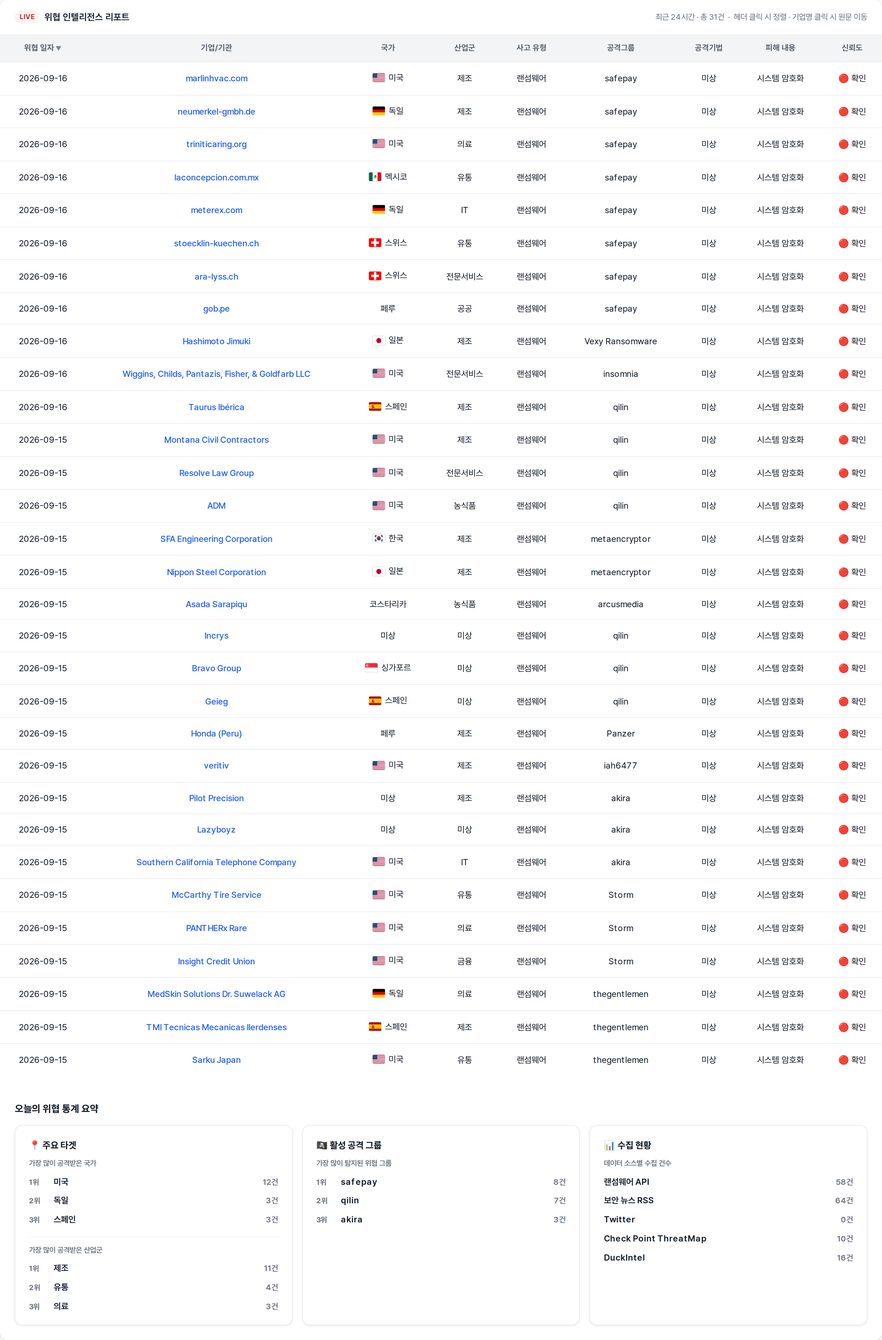
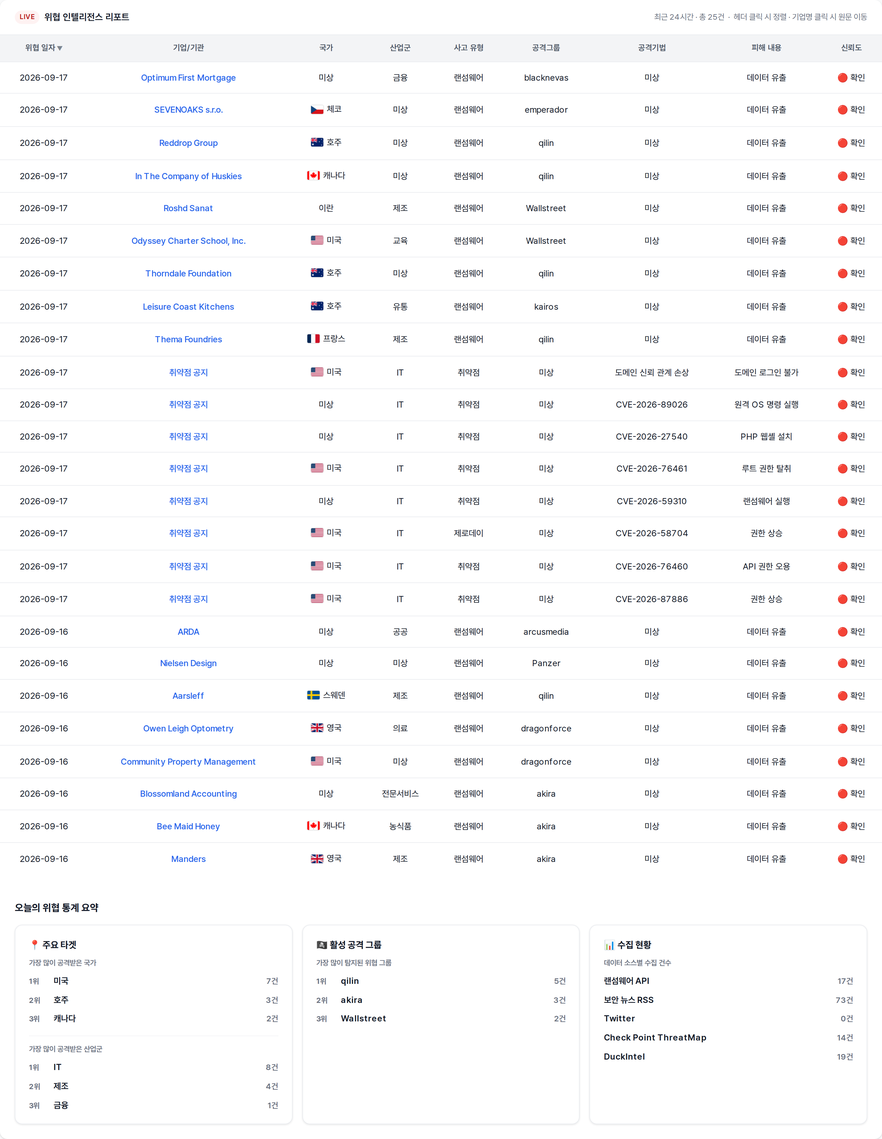
deploy: 9c533ad8fcaa3f846a31aadab046301a26f1192c

diff --git a/index.html b/index.html
@@ -3,7 +3,7 @@
 <head>
   <meta charset="UTF-8" />
   <meta name="viewport" content="width=device-width, initial-scale=1.0" />
-  <title>🚨 2026년 09월 16일 국내/해외 사이버 위협 현황</title>
+  <title>🚨 2026년 09월 17일 국내/해외 사이버 위협 현황</title>
   <link rel="preconnect" href="https://cdn.jsdelivr.net" />
   <link href="https://cdn.jsdelivr.net/gh/orioncactus/pretendard/dist/web/static/pretendard.css" rel="stylesheet" />
   <style>
@@ -253,7 +253,7 @@
 </head>
 <body>
   <div class="page-header">
-    <h1 class="page-title">🚨 2026년 09월 16일 국내/해외 사이버 위협 현황</h1>
+    <h1 class="page-title">🚨 2026년 09월 17일 국내/해외 사이버 위협 현황</h1>
   </div>
 
   <div class="dashboard">
@@ -261,43 +261,37 @@
     <div class="card-header">
       <span class="badge">LIVE</span>
       <span class="card-title">위협 인텔리전스 리포트</span>
-      <span class="card-count">최근 24시간 · 총 31건 &nbsp;·&nbsp; 헤더 클릭 시 정렬 · 기업명 클릭 시 원문 이동</span>
+      <span class="card-count">최근 24시간 · 총 25건 &nbsp;·&nbsp; 헤더 클릭 시 정렬 · 기업명 클릭 시 원문 이동</span>
     </div>
     <div class="table-wrap" style="overflow-x: auto; -webkit-overflow-scrolling: touch;">
       <table id="threat-table">
         <thead><tr><th onclick="sortTable(0)" data-col="0" class="sort-desc">위협 일자</th><th onclick="sortTable(1)" data-col="1">기업/기관</th><th onclick="sortTable(2)" data-col="2">국가</th><th onclick="sortTable(3)" data-col="3">산업군</th><th onclick="sortTable(4)" data-col="4">사고 유형</th><th onclick="sortTable(5)" data-col="5">공격그룹</th><th onclick="sortTable(6)" data-col="6">공격기법</th><th onclick="sortTable(7)" data-col="7">피해 내용</th><th onclick="sortTable(8)" data-col="8">신뢰도</th></tr></thead>
         <tbody>
-<tr><td>2026-09-16</td><td><a href="https://www.ransomware.live/id/bWFybGluaHZhYy5jb21Ac2FmZXBheQ==" target="_blank" rel="noopener noreferrer">marlinhvac.com</a></td><td class="country"><span class="country-cell"><img class="flag" src="https://flagcdn.com/w40/us.png" alt="미국" width="20" height="14" />미국</span></td><td>제조</td><td>랜섬웨어</td><td>safepay</td><td>미상</td><td>시스템 암호화</td><td>🔴 확인</td></tr>
-<tr><td>2026-09-16</td><td><a href="https://www.ransomware.live/id/bmV1bWVya2VsLWdtYmguZGVAc2FmZXBheQ==" target="_blank" rel="noopener noreferrer">neumerkel-gmbh.de</a></td><td class="country"><span class="country-cell"><img class="flag" src="https://flagcdn.com/w40/de.png" alt="독일" width="20" height="14" />독일</span></td><td>제조</td><td>랜섬웨어</td><td>safepay</td><td>미상</td><td>시스템 암호화</td><td>🔴 확인</td></tr>
-<tr><td>2026-09-16</td><td><a href="https://www.ransomware.live/id/dHJpbml0aWNhcmluZy5vcmdAc2FmZXBheQ==" target="_blank" rel="noopener noreferrer">triniticaring.org</a></td><td class="country"><span class="country-cell"><img class="flag" src="https://flagcdn.com/w40/us.png" alt="미국" width="20" height="14" />미국</span></td><td>의료</td><td>랜섬웨어</td><td>safepay</td><td>미상</td><td>시스템 암호화</td><td>🔴 확인</td></tr>
-<tr><td>2026-09-16</td><td><a href="https://www.ransomware.live/id/bGFjb25jZXBjaW9uLmNvbS5teEBzYWZlcGF5" target="_blank" rel="noopener noreferrer">laconcepcion.com.mx</a></td><td class="country"><span class="country-cell"><img class="flag" src="https://flagcdn.com/w40/mx.png" alt="멕시코" width="20" height="14" />멕시코</span></td><td>유통</td><td>랜섬웨어</td><td>safepay</td><td>미상</td><td>시스템 암호화</td><td>🔴 확인</td></tr>
-<tr><td>2026-09-16</td><td><a href="https://www.ransomware.live/id/bWV0ZXJleC5jb21Ac2FmZXBheQ==" target="_blank" rel="noopener noreferrer">meterex.com</a></td><td class="country"><span class="country-cell"><img class="flag" src="https://flagcdn.com/w40/de.png" alt="독일" width="20" height="14" />독일</span></td><td>IT</td><td>랜섬웨어</td><td>safepay</td><td>미상</td><td>시스템 암호화</td><td>🔴 확인</td></tr>
-<tr><td>2026-09-16</td><td><a href="https://www.ransomware.live/id/c3RvZWNrbGluLWt1ZWNoZW4uY2hAc2FmZXBheQ==" target="_blank" rel="noopener noreferrer">stoecklin-kuechen.ch</a></td><td class="country"><span class="country-cell"><img class="flag" src="https://flagcdn.com/w40/ch.png" alt="스위스" width="20" height="14" />스위스</span></td><td>유통</td><td>랜섬웨어</td><td>safepay</td><td>미상</td><td>시스템 암호화</td><td>🔴 확인</td></tr>
-<tr><td>2026-09-16</td><td><a href="https://www.ransomware.live/id/YXJhLWx5c3MuY2hAc2FmZXBheQ==" target="_blank" rel="noopener noreferrer">ara-lyss.ch</a></td><td class="country"><span class="country-cell"><img class="flag" src="https://flagcdn.com/w40/ch.png" alt="스위스" width="20" height="14" />스위스</span></td><td>전문서비스</td><td>랜섬웨어</td><td>safepay</td><td>미상</td><td>시스템 암호화</td><td>🔴 확인</td></tr>
-<tr><td>2026-09-16</td><td><a href="https://www.ransomware.live/id/Z29iLnBlQHNhZmVwYXk=" target="_blank" rel="noopener noreferrer">gob.pe</a></td><td class="country"><span class="country-cell">페루</span></td><td>공공</td><td>랜섬웨어</td><td>safepay</td><td>미상</td><td>시스템 암호화</td><td>🔴 확인</td></tr>
-<tr><td>2026-09-16</td><td><a href="https://www.ransomware.live/id/SGFzaGltb3RvIEppbXVraUBWZXh5IFJhbnNvbXdhcmU=" target="_blank" rel="noopener noreferrer">Hashimoto Jimuki</a></td><td class="country"><span class="country-cell"><img class="flag" src="https://flagcdn.com/w40/jp.png" alt="일본" width="20" height="14" />일본</span></td><td>제조</td><td>랜섬웨어</td><td>Vexy Ransomware</td><td>미상</td><td>시스템 암호화</td><td>🔴 확인</td></tr>
-<tr><td>2026-09-16</td><td><a href="https://www.ransomware.live/id/V2lnZ2lucywgQ2hpbGRzLCBQYW50YXppcywgRmlzaGVyLCAmIEdvbGRmYXJiIExMQ0BpbnNvbW5pYQ==" target="_blank" rel="noopener noreferrer">Wiggins, Childs, Pantazis, Fisher, &amp; Goldfarb LLC</a></td><td class="country"><span class="country-cell"><img class="flag" src="https://flagcdn.com/w40/us.png" alt="미국" width="20" height="14" />미국</span></td><td>전문서비스</td><td>랜섬웨어</td><td>insomnia</td><td>미상</td><td>시스템 암호화</td><td>🔴 확인</td></tr>
-<tr><td>2026-09-16</td><td><a href="https://www.ransomware.live/id/VGF1cnVzIEliw6lyaWNhQHFpbGlu" target="_blank" rel="noopener noreferrer">Taurus Ibérica</a></td><td class="country"><span class="country-cell"><img class="flag" src="https://flagcdn.com/w40/es.png" alt="스페인" width="20" height="14" />스페인</span></td><td>제조</td><td>랜섬웨어</td><td>qilin</td><td>미상</td><td>시스템 암호화</td><td>🔴 확인</td></tr>
-<tr><td>2026-09-15</td><td><a href="https://www.ransomware.live/id/TW9udGFuYSBDaXZpbCBDb250cmFjdG9yc0BxaWxpbg==" target="_blank" rel="noopener noreferrer">Montana Civil Contractors</a></td><td class="country"><span class="country-cell"><img class="flag" src="https://flagcdn.com/w40/us.png" alt="미국" width="20" height="14" />미국</span></td><td>제조</td><td>랜섬웨어</td><td>qilin</td><td>미상</td><td>시스템 암호화</td><td>🔴 확인</td></tr>
-<tr><td>2026-09-15</td><td><a href="https://www.ransomware.live/id/UmVzb2x2ZSBMYXcgR3JvdXBAcWlsaW4=" target="_blank" rel="noopener noreferrer">Resolve Law Group</a></td><td class="country"><span class="country-cell"><img class="flag" src="https://flagcdn.com/w40/us.png" alt="미국" width="20" height="14" />미국</span></td><td>전문서비스</td><td>랜섬웨어</td><td>qilin</td><td>미상</td><td>시스템 암호화</td><td>🔴 확인</td></tr>
-<tr><td>2026-09-15</td><td><a href="https://www.ransomware.live/id/QURNQHFpbGlu" target="_blank" rel="noopener noreferrer">ADM</a></td><td class="country"><span class="country-cell"><img class="flag" src="https://flagcdn.com/w40/us.png" alt="미국" width="20" height="14" />미국</span></td><td>농식품</td><td>랜섬웨어</td><td>qilin</td><td>미상</td><td>시스템 암호화</td><td>🔴 확인</td></tr>
-<tr><td>2026-09-15</td><td><a href="https://www.ransomware.live/id/U0ZBIEVuZ2luZWVyaW5nIENvcnBvcmF0aW9uQG1ldGFlbmNyeXB0b3I=" target="_blank" rel="noopener noreferrer">SFA Engineering Corporation</a></td><td class="country"><span class="country-cell"><img class="flag" src="https://flagcdn.com/w40/kr.png" alt="한국" width="20" height="14" />한국</span></td><td>제조</td><td>랜섬웨어</td><td>metaencryptor</td><td>미상</td><td>시스템 암호화</td><td>🔴 확인</td></tr>
-<tr><td>2026-09-15</td><td><a href="https://www.ransomware.live/id/TmlwcG9uIFN0ZWVsIENvcnBvcmF0aW9uQG1ldGFlbmNyeXB0b3I=" target="_blank" rel="noopener noreferrer">Nippon Steel Corporation</a></td><td class="country"><span class="country-cell"><img class="flag" src="https://flagcdn.com/w40/jp.png" alt="일본" width="20" height="14" />일본</span></td><td>제조</td><td>랜섬웨어</td><td>metaencryptor</td><td>미상</td><td>시스템 암호화</td><td>🔴 확인</td></tr>
-<tr><td>2026-09-15</td><td><a href="https://www.ransomware.live/id/QXNhZGEgU2FyYXBpcXVAYXJjdXNtZWRpYQ==" target="_blank" rel="noopener noreferrer">Asada Sarapiqu</a></td><td class="country"><span class="country-cell">코스타리카</span></td><td>농식품</td><td>랜섬웨어</td><td>arcusmedia</td><td>미상</td><td>시스템 암호화</td><td>🔴 확인</td></tr>
-<tr><td>2026-09-15</td><td><a href="https://www.ransomware.live/id/SW5jcnlzQHFpbGlu" target="_blank" rel="noopener noreferrer">Incrys</a></td><td class="country"><span class="country-cell">미상</span></td><td>미상</td><td>랜섬웨어</td><td>qilin</td><td>미상</td><td>시스템 암호화</td><td>🔴 확인</td></tr>
-<tr><td>2026-09-15</td><td><a href="https://www.ransomware.live/id/QnJhdm8gR3JvdXBAcWlsaW4=" target="_blank" rel="noopener noreferrer">Bravo Group</a></td><td class="country"><span class="country-cell"><img class="flag" src="https://flagcdn.com/w40/sg.png" alt="싱가포르" width="20" height="14" />싱가포르</span></td><td>미상</td><td>랜섬웨어</td><td>qilin</td><td>미상</td><td>시스템 암호화</td><td>🔴 확인</td></tr>
-<tr><td>2026-09-15</td><td><a href="https://www.ransomware.live/id/R2VpZWdAcWlsaW4=" target="_blank" rel="noopener noreferrer">Geieg</a></td><td class="country"><span class="country-cell"><img class="flag" src="https://flagcdn.com/w40/es.png" alt="스페인" width="20" height="14" />스페인</span></td><td>미상</td><td>랜섬웨어</td><td>qilin</td><td>미상</td><td>시스템 암호화</td><td>🔴 확인</td></tr>
-<tr><td>2026-09-15</td><td><a href="https://www.ransomware.live/id/SG9uZGEgKFBlcnUpQFBhbnplcg==" target="_blank" rel="noopener noreferrer">Honda (Peru)</a></td><td class="country"><span class="country-cell">페루</span></td><td>제조</td><td>랜섬웨어</td><td>Panzer</td><td>미상</td><td>시스템 암호화</td><td>🔴 확인</td></tr>
-<tr><td>2026-09-15</td><td><a href="https://www.ransomware.live/id/dmVyaXRpdkBpYWg2NDc3" target="_blank" rel="noopener noreferrer">veritiv</a></td><td class="country"><span class="country-cell"><img class="flag" src="https://flagcdn.com/w40/us.png" alt="미국" width="20" height="14" />미국</span></td><td>제조</td><td>랜섬웨어</td><td>iah6477</td><td>미상</td><td>시스템 암호화</td><td>🔴 확인</td></tr>
-<tr><td>2026-09-15</td><td><a href="https://www.ransomware.live/id/UGlsb3QgUHJlY2lzaW9uQGFraXJh" target="_blank" rel="noopener noreferrer">Pilot Precision</a></td><td class="country"><span class="country-cell">미상</span></td><td>제조</td><td>랜섬웨어</td><td>akira</td><td>미상</td><td>시스템 암호화</td><td>🔴 확인</td></tr>
-<tr><td>2026-09-15</td><td><a href="https://www.ransomware.live/id/TGF6eWJveXpAYWtpcmE=" target="_blank" rel="noopener noreferrer">Lazyboyz</a></td><td class="country"><span class="country-cell">미상</span></td><td>미상</td><td>랜섬웨어</td><td>akira</td><td>미상</td><td>시스템 암호화</td><td>🔴 확인</td></tr>
-<tr><td>2026-09-15</td><td><a href="https://www.ransomware.live/id/U291dGhlcm4gQ2FsaWZvcm5pYSBUZWxlcGhvbmUgQ29tcGFueUBha2lyYQ==" target="_blank" rel="noopener noreferrer">Southern California Telephone Company</a></td><td class="country"><span class="country-cell"><img class="flag" src="https://flagcdn.com/w40/us.png" alt="미국" width="20" height="14" />미국</span></td><td>IT</td><td>랜섬웨어</td><td>akira</td><td>미상</td><td>시스템 암호화</td><td>🔴 확인</td></tr>
-<tr><td>2026-09-15</td><td><a href="https://www.ransomware.live/id/TWNDYXJ0aHkgVGlyZSBTZXJ2aWNlQFN0b3Jt" target="_blank" rel="noopener noreferrer">McCarthy Tire Service</a></td><td class="country"><span class="country-cell"><img class="flag" src="https://flagcdn.com/w40/us.png" alt="미국" width="20" height="14" />미국</span></td><td>유통</td><td>랜섬웨어</td><td>Storm</td><td>미상</td><td>시스템 암호화</td><td>🔴 확인</td></tr>
-<tr><td>2026-09-15</td><td><a href="https://www.ransomware.live/id/UEFOVEhFUnggUmFyZUBTdG9ybQ==" target="_blank" rel="noopener noreferrer">PANTHERx Rare</a></td><td class="country"><span class="country-cell"><img class="flag" src="https://flagcdn.com/w40/us.png" alt="미국" width="20" height="14" />미국</span></td><td>의료</td><td>랜섬웨어</td><td>Storm</td><td>미상</td><td>시스템 암호화</td><td>🔴 확인</td></tr>
-<tr><td>2026-09-15</td><td><a href="https://www.ransomware.live/id/SW5zaWdodCBDcmVkaXQgVW5pb25AU3Rvcm0=" target="_blank" rel="noopener noreferrer">Insight Credit Union</a></td><td class="country"><span class="country-cell"><img class="flag" src="https://flagcdn.com/w40/us.png" alt="미국" width="20" height="14" />미국</span></td><td>금융</td><td>랜섬웨어</td><td>Storm</td><td>미상</td><td>시스템 암호화</td><td>🔴 확인</td></tr>
-<tr><td>2026-09-15</td><td><a href="https://www.ransomware.live/id/TWVkU2tpbiBTb2x1dGlvbnMgRHIuIFN1d2VsYWNrIEFHQHRoZWdlbnRsZW1lbg==" target="_blank" rel="noopener noreferrer">MedSkin Solutions Dr. Suwelack AG</a></td><td class="country"><span class="country-cell"><img class="flag" src="https://flagcdn.com/w40/de.png" alt="독일" width="20" height="14" />독일</span></td><td>의료</td><td>랜섬웨어</td><td>thegentlemen</td><td>미상</td><td>시스템 암호화</td><td>🔴 확인</td></tr>
-<tr><td>2026-09-15</td><td><a href="https://www.ransomware.live/id/VE1JIFRlY25pY2FzIE1lY2FuaWNhcyBJbGVyZGVuc2VzQHRoZWdlbnRsZW1lbg==" target="_blank" rel="noopener noreferrer">TMI Tecnicas Mecanicas Ilerdenses</a></td><td class="country"><span class="country-cell"><img class="flag" src="https://flagcdn.com/w40/es.png" alt="스페인" width="20" height="14" />스페인</span></td><td>제조</td><td>랜섬웨어</td><td>thegentlemen</td><td>미상</td><td>시스템 암호화</td><td>🔴 확인</td></tr>
-<tr><td>2026-09-15</td><td><a href="https://www.ransomware.live/id/U2Fya3UgSmFwYW5AdGhlZ2VudGxlbWVu" target="_blank" rel="noopener noreferrer">Sarku Japan</a></td><td class="country"><span class="country-cell"><img class="flag" src="https://flagcdn.com/w40/us.png" alt="미국" width="20" height="14" />미국</span></td><td>유통</td><td>랜섬웨어</td><td>thegentlemen</td><td>미상</td><td>시스템 암호화</td><td>🔴 확인</td></tr>
+<tr><td>2026-09-17</td><td><a href="https://www.ransomware.live/id/T3B0aW11bSBGaXJzdCBNb3J0Z2FnZSAoUGVhcidzIGFjdGluZyBncm91cCdzIHByb21vdGlvbmFsIGJsb2cpQGJsYWNrbmV2YXM=" target="_blank" rel="noopener noreferrer">Optimum First Mortgage</a></td><td class="country"><span class="country-cell">미상</span></td><td>금융</td><td>랜섬웨어</td><td>blacknevas</td><td>미상</td><td>데이터 유출</td><td>🔴 확인</td></tr>
+<tr><td>2026-09-17</td><td><a href="https://www.ransomware.live/id/U0VWRU5PQUtTIHMuci5vLkBlbXBlcmFkb3I=" target="_blank" rel="noopener noreferrer">SEVENOAKS s.r.o.</a></td><td class="country"><span class="country-cell"><img class="flag" src="https://flagcdn.com/w40/cz.png" alt="체코" width="20" height="14" />체코</span></td><td>미상</td><td>랜섬웨어</td><td>emperador</td><td>미상</td><td>데이터 유출</td><td>🔴 확인</td></tr>
+<tr><td>2026-09-17</td><td><a href="https://www.ransomware.live/id/UmVkZHJvcCBHcm91cEBxaWxpbg==" target="_blank" rel="noopener noreferrer">Reddrop Group</a></td><td class="country"><span class="country-cell"><img class="flag" src="https://flagcdn.com/w40/au.png" alt="호주" width="20" height="14" />호주</span></td><td>미상</td><td>랜섬웨어</td><td>qilin</td><td>미상</td><td>데이터 유출</td><td>🔴 확인</td></tr>
+<tr><td>2026-09-17</td><td><a href="https://www.ransomware.live/id/SW4gVGhlIENvbXBhbnkgb2YgSHVza2llc0BxaWxpbg==" target="_blank" rel="noopener noreferrer">In The Company of Huskies</a></td><td class="country"><span class="country-cell"><img class="flag" src="https://flagcdn.com/w40/ca.png" alt="캐나다" width="20" height="14" />캐나다</span></td><td>미상</td><td>랜섬웨어</td><td>qilin</td><td>미상</td><td>데이터 유출</td><td>🔴 확인</td></tr>
+<tr><td>2026-09-17</td><td><a href="https://www.ransomware.live/id/Um9zaGQgU2FuYXRAV2FsbHN0cmVldA==" target="_blank" rel="noopener noreferrer">Roshd Sanat</a></td><td class="country"><span class="country-cell">이란</span></td><td>제조</td><td>랜섬웨어</td><td>Wallstreet</td><td>미상</td><td>데이터 유출</td><td>🔴 확인</td></tr>
+<tr><td>2026-09-17</td><td><a href="https://www.ransomware.live/id/T2R5c3NleSBDaGFydGVyIFNjaG9vbCwgSW5jLkBXYWxsc3RyZWV0" target="_blank" rel="noopener noreferrer">Odyssey Charter School, Inc.</a></td><td class="country"><span class="country-cell"><img class="flag" src="https://flagcdn.com/w40/us.png" alt="미국" width="20" height="14" />미국</span></td><td>교육</td><td>랜섬웨어</td><td>Wallstreet</td><td>미상</td><td>데이터 유출</td><td>🔴 확인</td></tr>
+<tr><td>2026-09-17</td><td><a href="https://www.ransomware.live/id/VGhvcm5kYWxlIEZvdW5kYXRpb25AcWlsaW4=" target="_blank" rel="noopener noreferrer">Thorndale Foundation</a></td><td class="country"><span class="country-cell"><img class="flag" src="https://flagcdn.com/w40/au.png" alt="호주" width="20" height="14" />호주</span></td><td>미상</td><td>랜섬웨어</td><td>qilin</td><td>미상</td><td>데이터 유출</td><td>🔴 확인</td></tr>
+<tr><td>2026-09-17</td><td><a href="https://www.ransomware.live/id/TGVpc3VyZSBDb2FzdCBLaXRjaGVuc0BrYWlyb3M=" target="_blank" rel="noopener noreferrer">Leisure Coast Kitchens</a></td><td class="country"><span class="country-cell"><img class="flag" src="https://flagcdn.com/w40/au.png" alt="호주" width="20" height="14" />호주</span></td><td>유통</td><td>랜섬웨어</td><td>kairos</td><td>미상</td><td>데이터 유출</td><td>🔴 확인</td></tr>
+<tr><td>2026-09-17</td><td><a href="https://www.ransomware.live/id/VGhlbWEgRm91bmRyaWVzQHFpbGlu" target="_blank" rel="noopener noreferrer">Thema Foundries</a></td><td class="country"><span class="country-cell"><img class="flag" src="https://flagcdn.com/w40/fr.png" alt="프랑스" width="20" height="14" />프랑스</span></td><td>제조</td><td>랜섬웨어</td><td>qilin</td><td>미상</td><td>데이터 유출</td><td>🔴 확인</td></tr>
+<tr><td>2026-09-17</td><td><a href="https://www.bleepingcomputer.com/news/microsoft/windows-11-kb5124008-update-breaks-domain-trust-for-some-users/" target="_blank" rel="noopener noreferrer">취약점 공지</a></td><td class="country"><span class="country-cell"><img class="flag" src="https://flagcdn.com/w40/us.png" alt="미국" width="20" height="14" />미국</span></td><td>IT</td><td>취약점</td><td>미상</td><td>도메인 신뢰 관계 손상</td><td>도메인 로그인 불가</td><td>🔴 확인</td></tr>
+<tr><td>2026-09-17</td><td><a href="https://thehackernews.com/2026/09/attackers-exploit-issabel-framework.html" target="_blank" rel="noopener noreferrer">취약점 공지</a></td><td class="country"><span class="country-cell">미상</span></td><td>IT</td><td>취약점</td><td>미상</td><td>CVE-2026-89026</td><td>원격 OS 명령 실행</td><td>🔴 확인</td></tr>
+<tr><td>2026-09-17</td><td><a href="https://www.dailysecu.com/news/articleView.html?idxno=208519" target="_blank" rel="noopener noreferrer">취약점 공지</a></td><td class="country"><span class="country-cell">미상</span></td><td>IT</td><td>취약점</td><td>미상</td><td>CVE-2026-27540</td><td>PHP 웹셸 설치</td><td>🔴 확인</td></tr>
+<tr><td>2026-09-17</td><td><a href="https://www.dailysecu.com/news/articleView.html?idxno=208515" target="_blank" rel="noopener noreferrer">취약점 공지</a></td><td class="country"><span class="country-cell"><img class="flag" src="https://flagcdn.com/w40/us.png" alt="미국" width="20" height="14" />미국</span></td><td>IT</td><td>취약점</td><td>미상</td><td>CVE-2026-76461</td><td>루트 권한 탈취</td><td>🔴 확인</td></tr>
+<tr><td>2026-09-17</td><td><a href="https://www.dailysecu.com/news/articleView.html?idxno=208516" target="_blank" rel="noopener noreferrer">취약점 공지</a></td><td class="country"><span class="country-cell">미상</span></td><td>IT</td><td>취약점</td><td>미상</td><td>CVE-2026-59310</td><td>랜섬웨어 실행</td><td>🔴 확인</td></tr>
+<tr><td>2026-09-17</td><td><a href="https://www.dailysecu.com/news/articleView.html?idxno=208520" target="_blank" rel="noopener noreferrer">취약점 공지</a></td><td class="country"><span class="country-cell"><img class="flag" src="https://flagcdn.com/w40/us.png" alt="미국" width="20" height="14" />미국</span></td><td>IT</td><td>제로데이</td><td>미상</td><td>CVE-2026-58704</td><td>권한 상승</td><td>🔴 확인</td></tr>
+<tr><td>2026-09-17</td><td><a href="https://nvd.nist.gov/vuln/detail/CVE-2026-76460" target="_blank" rel="noopener noreferrer">취약점 공지</a></td><td class="country"><span class="country-cell"><img class="flag" src="https://flagcdn.com/w40/us.png" alt="미국" width="20" height="14" />미국</span></td><td>IT</td><td>취약점</td><td>미상</td><td>CVE-2026-76460</td><td>API 권한 오용</td><td>🔴 확인</td></tr>
+<tr><td>2026-09-17</td><td><a href="https://nvd.nist.gov/vuln/detail/CVE-2026-87886" target="_blank" rel="noopener noreferrer">취약점 공지</a></td><td class="country"><span class="country-cell"><img class="flag" src="https://flagcdn.com/w40/us.png" alt="미국" width="20" height="14" />미국</span></td><td>IT</td><td>취약점</td><td>미상</td><td>CVE-2026-87886</td><td>권한 상승</td><td>🔴 확인</td></tr>
+<tr><td>2026-09-16</td><td><a href="https://www.ransomware.live/id/QVJEQUBhcmN1c21lZGlh" target="_blank" rel="noopener noreferrer">ARDA</a></td><td class="country"><span class="country-cell">미상</span></td><td>공공</td><td>랜섬웨어</td><td>arcusmedia</td><td>미상</td><td>데이터 유출</td><td>🔴 확인</td></tr>
+<tr><td>2026-09-16</td><td><a href="https://www.ransomware.live/id/TmllbHNlbiBEZXNpZ25AUGFuemVy" target="_blank" rel="noopener noreferrer">Nielsen Design</a></td><td class="country"><span class="country-cell">미상</span></td><td>미상</td><td>랜섬웨어</td><td>Panzer</td><td>미상</td><td>데이터 유출</td><td>🔴 확인</td></tr>
+<tr><td>2026-09-16</td><td><a href="https://www.ransomware.live/id/QWFyc2xlZmZAcWlsaW4=" target="_blank" rel="noopener noreferrer">Aarsleff</a></td><td class="country"><span class="country-cell"><img class="flag" src="https://flagcdn.com/w40/se.png" alt="스웨덴" width="20" height="14" />스웨덴</span></td><td>제조</td><td>랜섬웨어</td><td>qilin</td><td>미상</td><td>데이터 유출</td><td>🔴 확인</td></tr>
+<tr><td>2026-09-16</td><td><a href="https://www.ransomware.live/id/T3dlbiBMZWlnaCBPcHRvbWV0cnlAZHJhZ29uZm9yY2U=" target="_blank" rel="noopener noreferrer">Owen Leigh Optometry</a></td><td class="country"><span class="country-cell"><img class="flag" src="https://flagcdn.com/w40/gb.png" alt="영국" width="20" height="14" />영국</span></td><td>의료</td><td>랜섬웨어</td><td>dragonforce</td><td>미상</td><td>데이터 유출</td><td>🔴 확인</td></tr>
+<tr><td>2026-09-16</td><td><a href="https://www.ransomware.live/id/Q29tbXVuaXR5IFByb3BlcnR5IE1hbmFnZW1lbnRAZHJhZ29uZm9yY2U=" target="_blank" rel="noopener noreferrer">Community Property Management</a></td><td class="country"><span class="country-cell"><img class="flag" src="https://flagcdn.com/w40/us.png" alt="미국" width="20" height="14" />미국</span></td><td>미상</td><td>랜섬웨어</td><td>dragonforce</td><td>미상</td><td>데이터 유출</td><td>🔴 확인</td></tr>
+<tr><td>2026-09-16</td><td><a href="https://www.ransomware.live/id/Qmxvc3NvbWxhbmQgQWNjb3VudGluZ0Bha2lyYQ==" target="_blank" rel="noopener noreferrer">Blossomland Accounting</a></td><td class="country"><span class="country-cell">미상</span></td><td>전문서비스</td><td>랜섬웨어</td><td>akira</td><td>미상</td><td>데이터 유출</td><td>🔴 확인</td></tr>
+<tr><td>2026-09-16</td><td><a href="https://www.ransomware.live/id/QmVlIE1haWQgSG9uZXlAYWtpcmE=" target="_blank" rel="noopener noreferrer">Bee Maid Honey</a></td><td class="country"><span class="country-cell"><img class="flag" src="https://flagcdn.com/w40/ca.png" alt="캐나다" width="20" height="14" />캐나다</span></td><td>농식품</td><td>랜섬웨어</td><td>akira</td><td>미상</td><td>데이터 유출</td><td>🔴 확인</td></tr>
+<tr><td>2026-09-16</td><td><a href="https://www.ransomware.live/id/TWFuZGVyc0Bha2lyYQ==" target="_blank" rel="noopener noreferrer">Manders</a></td><td class="country"><span class="country-cell"><img class="flag" src="https://flagcdn.com/w40/gb.png" alt="영국" width="20" height="14" />영국</span></td><td>제조</td><td>랜섬웨어</td><td>akira</td><td>미상</td><td>데이터 유출</td><td>🔴 확인</td></tr>
         </tbody>
       </table>
     </div>
@@ -308,19 +302,19 @@
       <article class="stat-card">
         <h3 class="stat-title">📍 주요 타겟</h3>
         <p class="stat-subtitle">가장 많이 공격받은 국가</p>
-        <ol class="stat-list"><li><span class="stat-rank">1위</span><span class="stat-name">미국</span><span class="stat-count">12건</span></li><li><span class="stat-rank">2위</span><span class="stat-name">독일</span><span class="stat-count">3건</span></li><li><span class="stat-rank">3위</span><span class="stat-name">스페인</span><span class="stat-count">3건</span></li></ol>
+        <ol class="stat-list"><li><span class="stat-rank">1위</span><span class="stat-name">미국</span><span class="stat-count">7건</span></li><li><span class="stat-rank">2위</span><span class="stat-name">호주</span><span class="stat-count">3건</span></li><li><span class="stat-rank">3위</span><span class="stat-name">캐나다</span><span class="stat-count">2건</span></li></ol>
         <p class="stat-subtitle stat-subtitle-gap">가장 많이 공격받은 산업군</p>
-        <ol class="stat-list"><li><span class="stat-rank">1위</span><span class="stat-name">제조</span><span class="stat-count">11건</span></li><li><span class="stat-rank">2위</span><span class="stat-name">유통</span><span class="stat-count">4건</span></li><li><span class="stat-rank">3위</span><span class="stat-name">의료</span><span class="stat-count">3건</span></li></ol>
+        <ol class="stat-list"><li><span class="stat-rank">1위</span><span class="stat-name">IT</span><span class="stat-count">8건</span></li><li><span class="stat-rank">2위</span><span class="stat-name">제조</span><span class="stat-count">4건</span></li><li><span class="stat-rank">3위</span><span class="stat-name">금융</span><span class="stat-count">1건</span></li></ol>
       </article>
       <article class="stat-card">
         <h3 class="stat-title">🏴☠ 활성 공격 그룹</h3>
         <p class="stat-subtitle">가장 많이 탐지된 위협 그룹</p>
-        <ol class="stat-list"><li><span class="stat-rank">1위</span><span class="stat-name">safepay</span><span class="stat-count">8건</span></li><li><span class="stat-rank">2위</span><span class="stat-name">qilin</span><span class="stat-count">7건</span></li><li><span class="stat-rank">3위</span><span class="stat-name">akira</span><span class="stat-count">3건</span></li></ol>
+        <ol class="stat-list"><li><span class="stat-rank">1위</span><span class="stat-name">qilin</span><span class="stat-count">5건</span></li><li><span class="stat-rank">2위</span><span class="stat-name">akira</span><span class="stat-count">3건</span></li><li><span class="stat-rank">3위</span><span class="stat-name">Wallstreet</span><span class="stat-count">2건</span></li></ol>
       </article>
       <article class="stat-card">
         <h3 class="stat-title">📊 수집 현황</h3>
         <p class="stat-subtitle">데이터 소스별 수집 건수</p>
-        <ul class="stat-list stat-sources"><li><span class="stat-name">랜섬웨어 API</span><span class="stat-count">58건</span></li><li><span class="stat-name">보안 뉴스 RSS</span><span class="stat-count">64건</span></li><li><span class="stat-name">Twitter</span><span class="stat-count">0건</span></li><li><span class="stat-name">Check Point ThreatMap</span><span class="stat-count">10건</span></li><li><span class="stat-name">DuckIntel</span><span class="stat-count">16건</span></li></ul>
+        <ul class="stat-list stat-sources"><li><span class="stat-name">랜섬웨어 API</span><span class="stat-count">17건</span></li><li><span class="stat-name">보안 뉴스 RSS</span><span class="stat-count">73건</span></li><li><span class="stat-name">Twitter</span><span class="stat-count">0건</span></li><li><span class="stat-name">Check Point ThreatMap</span><span class="stat-count">14건</span></li><li><span class="stat-name">DuckIntel</span><span class="stat-count">19건</span></li></ul>
       </article>
     </div>
   </section>
